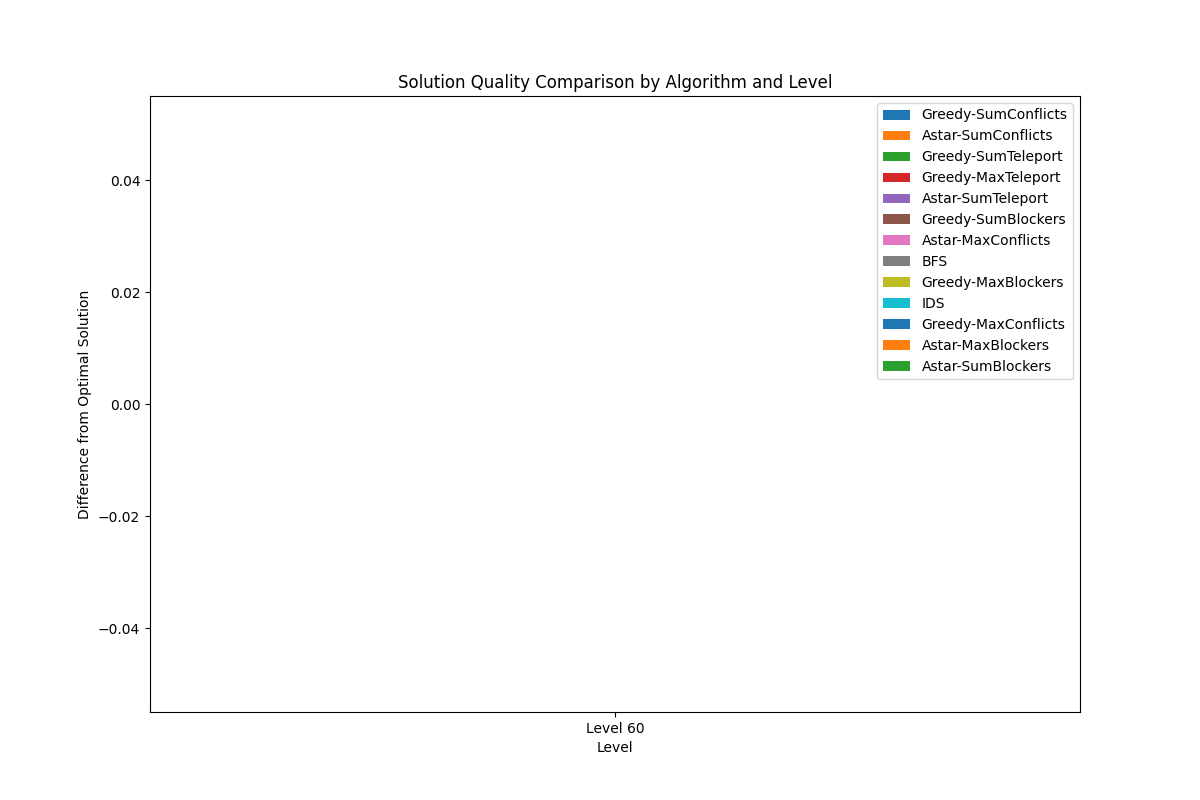
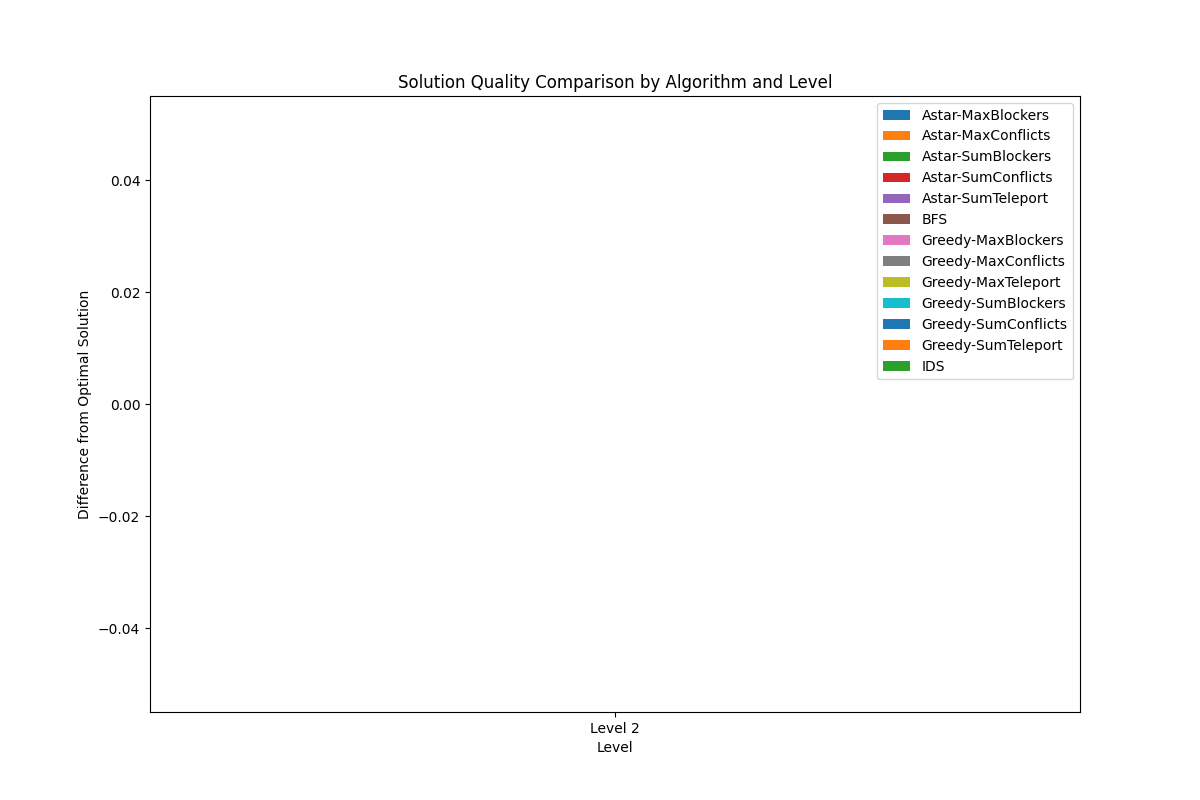
changes to benchmark

Changed region(s): [[0.7708, 0.125, 0.8942, 0.4688], [0.4933, 0.9062, 0.5242, 0.9375]]

diff --git a/benchmark_utils.py b/benchmark_utils.py
@@ -30,23 +30,56 @@ def plot_metrics(metrics_list):
     # Group metrics by level
     levels = set(m["level"] for m in metrics_list)
     algorithms = set(m["algorithm"] for m in metrics_list)
-    
+    # order alphavetically
+    algorithms = sorted(algorithms)
     # Plot time comparison
     plt.figure(figsize=(12, 8))
     bar_width = 0.2
     index = np.arange(len(levels))
-    
+
+    # Define colors for each algorithm
+    color_map = {
+        "Astar-MaxBlockers": "#00796B",
+        "Astar-MaxConflicts": "#009E8B",
+        "Astar-MaxTeleport": "#00EACE",
+        "Astar-SumBlockers": "#A1FBD5",
+        "Astar-SumConflicts": "#D0FDEA",
+        "Astar-SumTeleport": "#057F4C",
+        "BFS": "orange",
+        "Greedy-MaxBlockers": "#061B80",
+        "Greedy-MaxConflicts": "#0829C0",
+        "Greedy-MaxTeleport": "#738BF9",
+        "Greedy-SumBlockers": "#A2B2FB",
+        "Greedy-SumConflicts": "#D0D8FD",
+        "Greedy-SumTeleport": "#163EF5",
+        "IDS": "yellow"
+    }
+
+    # Generate colors based on the category
+    labels = [
+        "Astar-MaxBlockers", "Astar-MaxConflicts", "Astar-MaxTeleport", "Astar-SumBlockers", "Astar-SumConflicts",
+        "Astar-SumTeleport",
+        "BFS",
+        "Greedy-MaxBlockers", "Greedy-MaxConflicts", "Greedy-MaxTeleport", "Greedy-SumBlockers", "Greedy-SumConflicts",
+        "Greedy-SumTeleport",
+        "IDS"
+    ]
+    colors = [color_map[label] for label in labels]
+
+
     for i, alg in enumerate(algorithms):
         times = [next((m["time"] for m in metrics_list if m["algorithm"] == alg and m["level"] == level), 0) 
                 for level in levels]
-        plt.bar(index + i*bar_width, times, bar_width, label=alg)
+        plt.bar(index + i*bar_width, times, bar_width, label=alg, color=colors[i])
     
     plt.xlabel('Level')
     plt.ylabel('Time (seconds)')
     plt.title('Time Comparison by Algorithm and Level')
     plt.xticks(index + bar_width * (len(algorithms)-1)/2, levels)
     plt.legend()
-    plt.savefig("results/time_comparison.png")
+    element = next(iter(levels))  # Get the single element from the set
+    number = element.split()[-1]
+    plt.savefig(f"results/time_comparison_level{number}.png", bbox_inches='tight', pad_inches=0.1)
     plt.close()
     
     # Plot memory comparison
@@ -54,14 +87,14 @@ def plot_metrics(metrics_list):
     for i, alg in enumerate(algorithms):
         memory = [next((m["memory"]/1024/1024 for m in metrics_list if m["algorithm"] == alg and m["level"] == level), 0) 
                  for level in levels]
-        plt.bar(index + i*bar_width, memory, bar_width, label=alg)
+        plt.bar(index + i*bar_width, memory, bar_width, label=alg, color=colors[i])
     
     plt.xlabel('Level')
     plt.ylabel('Memory (MB)')
     plt.title('Memory Usage Comparison by Algorithm and Level')
     plt.xticks(index + bar_width * (len(algorithms)-1)/2, levels)
     plt.legend()
-    plt.savefig("results/memory_comparison.png")
+    plt.savefig(f"results/memory_comparison_level{number}.png", bbox_inches='tight', pad_inches=0.1)
     plt.close()
     
     # Plot states generated comparison
@@ -69,14 +102,14 @@ def plot_metrics(metrics_list):
     for i, alg in enumerate(algorithms):
         states = [next((m["states_generated"] for m in metrics_list if m["algorithm"] == alg and m["level"] == level), 0) 
                  for level in levels]
-        plt.bar(index + i*bar_width, states, bar_width, label=alg)
+        plt.bar(index + i*bar_width, states, bar_width, label=alg, color=colors[i])
     
     plt.xlabel('Level')
     plt.ylabel('States Generated')
     plt.title('States Generated Comparison by Algorithm and Level')
     plt.xticks(index + bar_width * (len(algorithms)-1)/2, levels)
     plt.legend()
-    plt.savefig("results/states_comparison.png")
+    plt.savefig(f"results/states_comparison_level{number}.png", bbox_inches='tight', pad_inches=0.1)
     plt.close()
     
     # Plot solution quality (difference from optimal)
@@ -86,14 +119,14 @@ def plot_metrics(metrics_list):
         diff = [next((m["difference_from_optimal"] if m["difference_from_optimal"] is not None else 0 
                       for m in metrics_list if m["algorithm"] == alg and m["level"] == level), 0) 
                 for level in levels]
-        plt.bar(index + i*bar_width, diff, bar_width, label=alg)
+        plt.bar(index + i*bar_width, diff, bar_width, label=alg, color=colors[i])
     
     plt.xlabel('Level')
     plt.ylabel('Difference from Optimal Solution')
     plt.title('Solution Quality Comparison by Algorithm and Level')
     plt.xticks(index + bar_width * (len(algorithms)-1)/2, levels)
     plt.legend()
-    plt.savefig("results/solution_quality_comparison.png")
+    plt.savefig(f"results/solution_quality_comparison_level{number}.png", bbox_inches='tight', pad_inches=0.1)
     plt.close()
     
     print(f"Plots saved to the 'results' directory")

diff --git a/ai_game_solver.py b/ai_game_solver.py
@@ -12,9 +12,9 @@ class AIGameSolver:
         self.algorithms = {
             1: ("BFS", lambda state: search_algorithm.BFS(deepcopy(state))),
             2: ("IDS", lambda state, optimal_moves: search_algorithm.IDS(deepcopy(state), optimal_moves)),
+
             3: ("Greedy-SumTeleport", lambda state: search_algorithm.GreedySearch(
                 deepcopy(state), heuristic.SumMinMovesTeleport())),
-
             4: ("Greedy-MaxTeleport", lambda state: search_algorithm.GreedySearch(
                 deepcopy(state), heuristic.MaxMinMovesTeleport())),
             5: ("Greedy-SumBlockers", lambda state: search_algorithm.GreedySearch(
@@ -28,7 +28,7 @@ class AIGameSolver:
 
             9: ("Astar-SumTeleport", lambda state: search_algorithm.Astar(
                 deepcopy(state), heuristic.SumMinMovesTeleport())),
-            10: ("Greedy-MaxTeleport", lambda state: search_algorithm.Astar(
+            10: ("Astar-MaxTeleport", lambda state: search_algorithm.Astar(
                 deepcopy(state), heuristic.MaxMinMovesTeleport())),
             11: ("Astar-SumBlockers", lambda state: search_algorithm.Astar(
                 deepcopy(state), heuristic.SumMinMovesBlockers())),
@@ -46,7 +46,7 @@ class AIGameSolver:
             print(f"{i}. {name}")
         print("15. Run all algorithms and generate comparison plots")
 
-        return int(input("\nEnter your choice (1-14): "))
+        return int(input("\nEnter your choice (1-15): "))
     
     def solve_level(self, level_index: int, level: Level) -> list:
         """Solve a level using selected algorithm(s)."""
